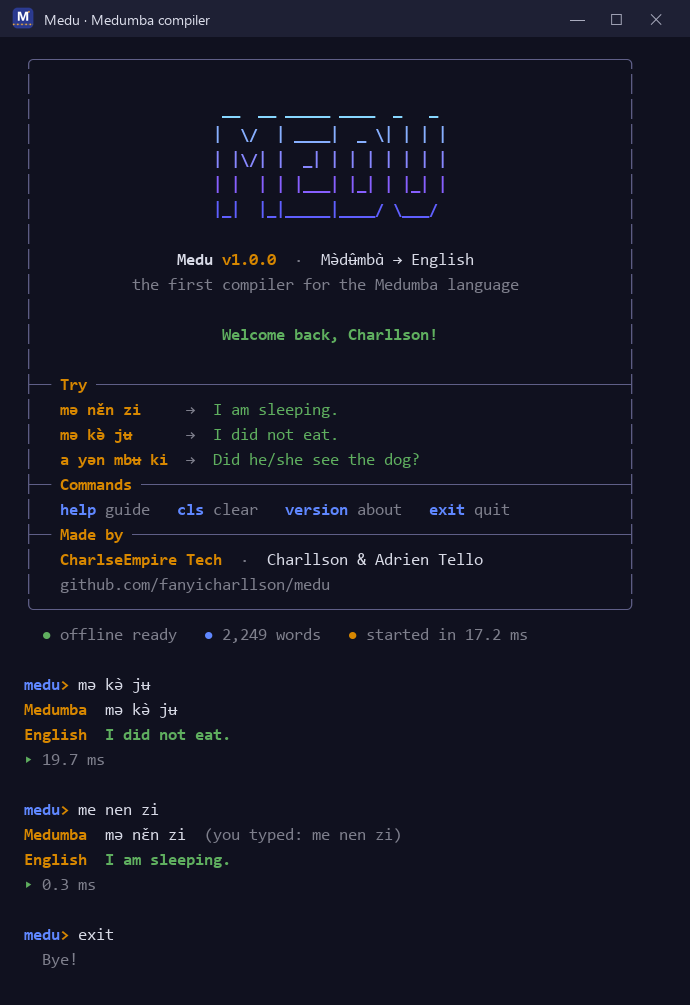
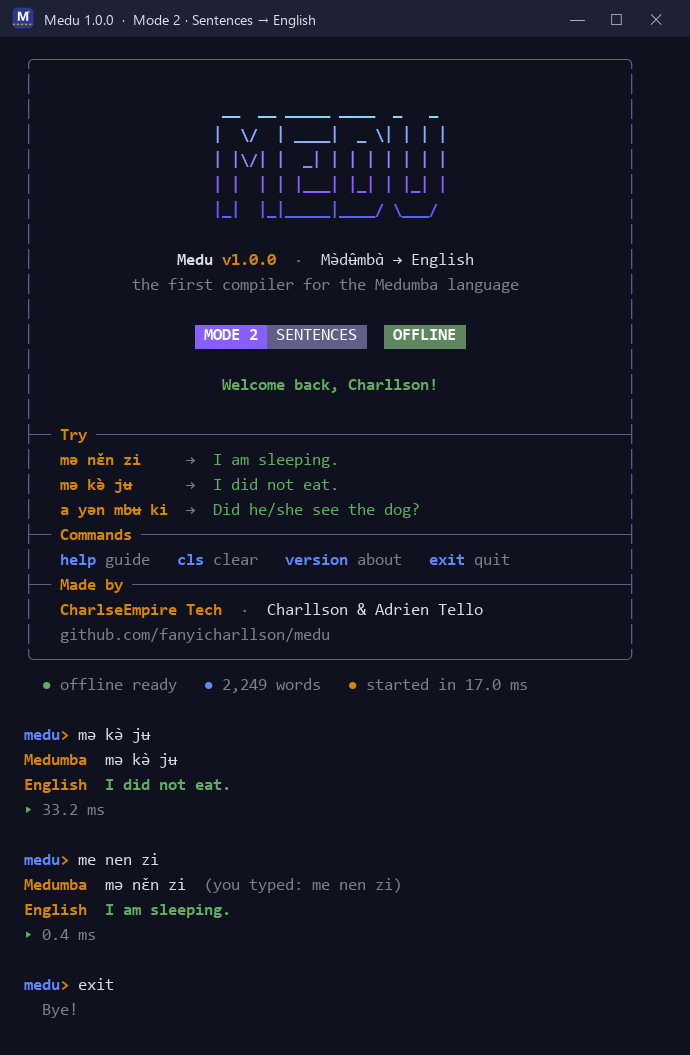
fix: installer PATH key; mode and version in the Medu window
- installer wrote PATH to HKLM\Environment, which does not exist (error 87
  when installing for all users). PATH now goes to HKCU\Environment for one
  user and to Session Manager\Environment for all users, and is removed
  from the same place on uninstall. Tested: silent install, PATH, .mdt
  link, medu -v, silent uninstall
- the window title follows what Medu is doing: 'Medu 1.0.0 · Mode 2 ·
  Sentences → English', 'translating story.mdt', 'Mode 1 · running x.med'
- welcome card shows MODE 2 · SENTENCES and OFFLINE badges

diff --git a/medu/cli.py b/medu/cli.py
@@ -174,12 +174,35 @@ def unknown(word: str) -> int:
 # Entry point
 # ---------------------------------------------------------------------------
 
+MODE_SENTENCES = "Mode 2 · Sentences → English"
+MODE_PROGRAMS = "Mode 1 · Programs"
+
+
+def _activity(argv: list[str]) -> str:
+    """What the title bar of the Medu window says for this command."""
+    if not argv:
+        return MODE_SENTENCES
+    command = ALIASES.get(argv[0].lower(), argv[0].lower())
+    target = Path(argv[1]).name if len(argv) > 1 else ""
+    if command in ("translate", "check") and target:
+        mode = MODE_PROGRAMS if target.lower().endswith(".med") else "Mode 2"
+        return f"{mode.split(' · ')[0]} · {'checking' if command == 'check' else 'translating'} {target}"
+    if command == "run":
+        return f"Mode 1 · running {target}" if target else MODE_PROGRAMS
+    if "." in argv[0]:
+        name = Path(argv[0]).name
+        return (f"Mode 1 · running {name}" if name.lower().endswith(".med")
+                else f"Mode 2 · translating {name}")
+    return {"help": "Help", "commands": "Commands", "version": "About",
+            "upgrade": "Upgrading", "downgrade": "Changing version"}.get(command, "")
+
+
 def _dispatch(argv: list[str]) -> int:
     quiet = any(a in ("-q", "--quiet") for a in argv)
     color = False if "--no-color" in argv else None
     argv = [a for a in argv if a not in ("-q", "--quiet", "--no-color")]
     ui.setup(color)
-    window.brand()                         # only in Medu's own window
+    window.brand(_activity(argv))          # only in Medu's own window
     if not argv:
         lang, load = _load()
         return mode2.interactive(lang, load, quiet)

diff --git a/medu/window.py b/medu/window.py
@@ -108,13 +108,20 @@ def _set_font(k, handle) -> None:
             return
 
 
-def brand() -> bool:
-    """Style the window if it is Medu's own. Returns True when it did."""
+def title_for(activity: str = "") -> str:
+    """'Medu 1.0.0  ·  Mode 2 · Sentences → English'"""
+    from medu import __version__
+    return f"Medu {__version__}  ·  {activity}" if activity else f"Medu {__version__}  ·  {TITLE}"
+
+
+def brand(activity: str = "") -> bool:
+    """Style the window if it is Medu's own. Returns True when it did.
+    activity is shown in the title bar, e.g. 'Mode 2 · Sentences → English'."""
     if os.environ.get("MEDU_PLAIN_WINDOW") or not owns_console():
         return False
     k = _kernel32()
     try:
-        k.SetConsoleTitleW(TITLE)
+        k.SetConsoleTitleW(title_for(activity))
         handle = k.GetStdHandle(-11)
         _set_font(k, handle)
         _set_colours(k, handle)

diff --git a/medu/ui.py b/medu/ui.py
@@ -169,6 +169,9 @@ def welcome(language: str = "medumba", words: int = 0, load_seconds: float = 0.0
               row(paint("Medu ", BOLD) + paint(f"v{__version__}", OCHRE, BOLD)
                   + paint("  ·  ", DIM) + f"{name} → English", "center"),
               row(paint("the first compiler for the Medumba language", DIM), "center"),
+              row(),
+              row(paint(" MODE 2 ", "48;5;99", "38;5;231", BOLD) + paint(" SENTENCES ", "48;5;60", "38;5;231")
+                  + "  " + paint(" OFFLINE ", "48;5;65", "38;5;231", BOLD), "center"),
               row()]
     user = user_name()
     if user:
